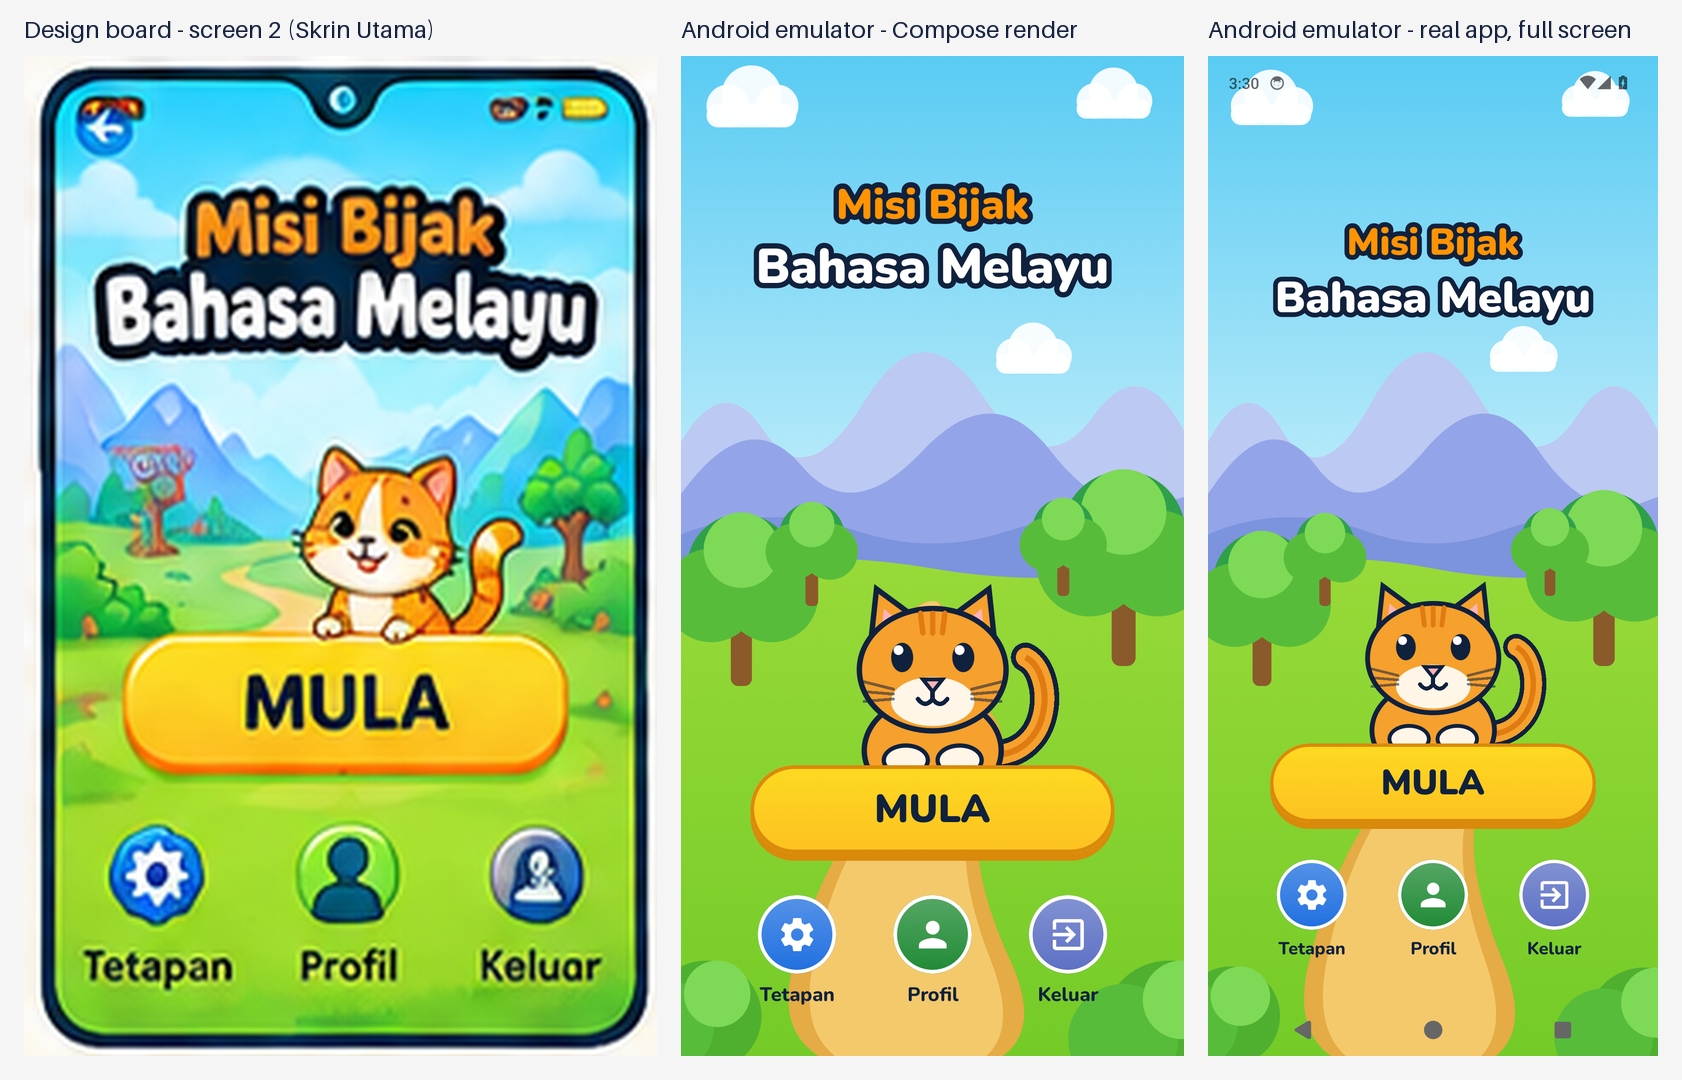
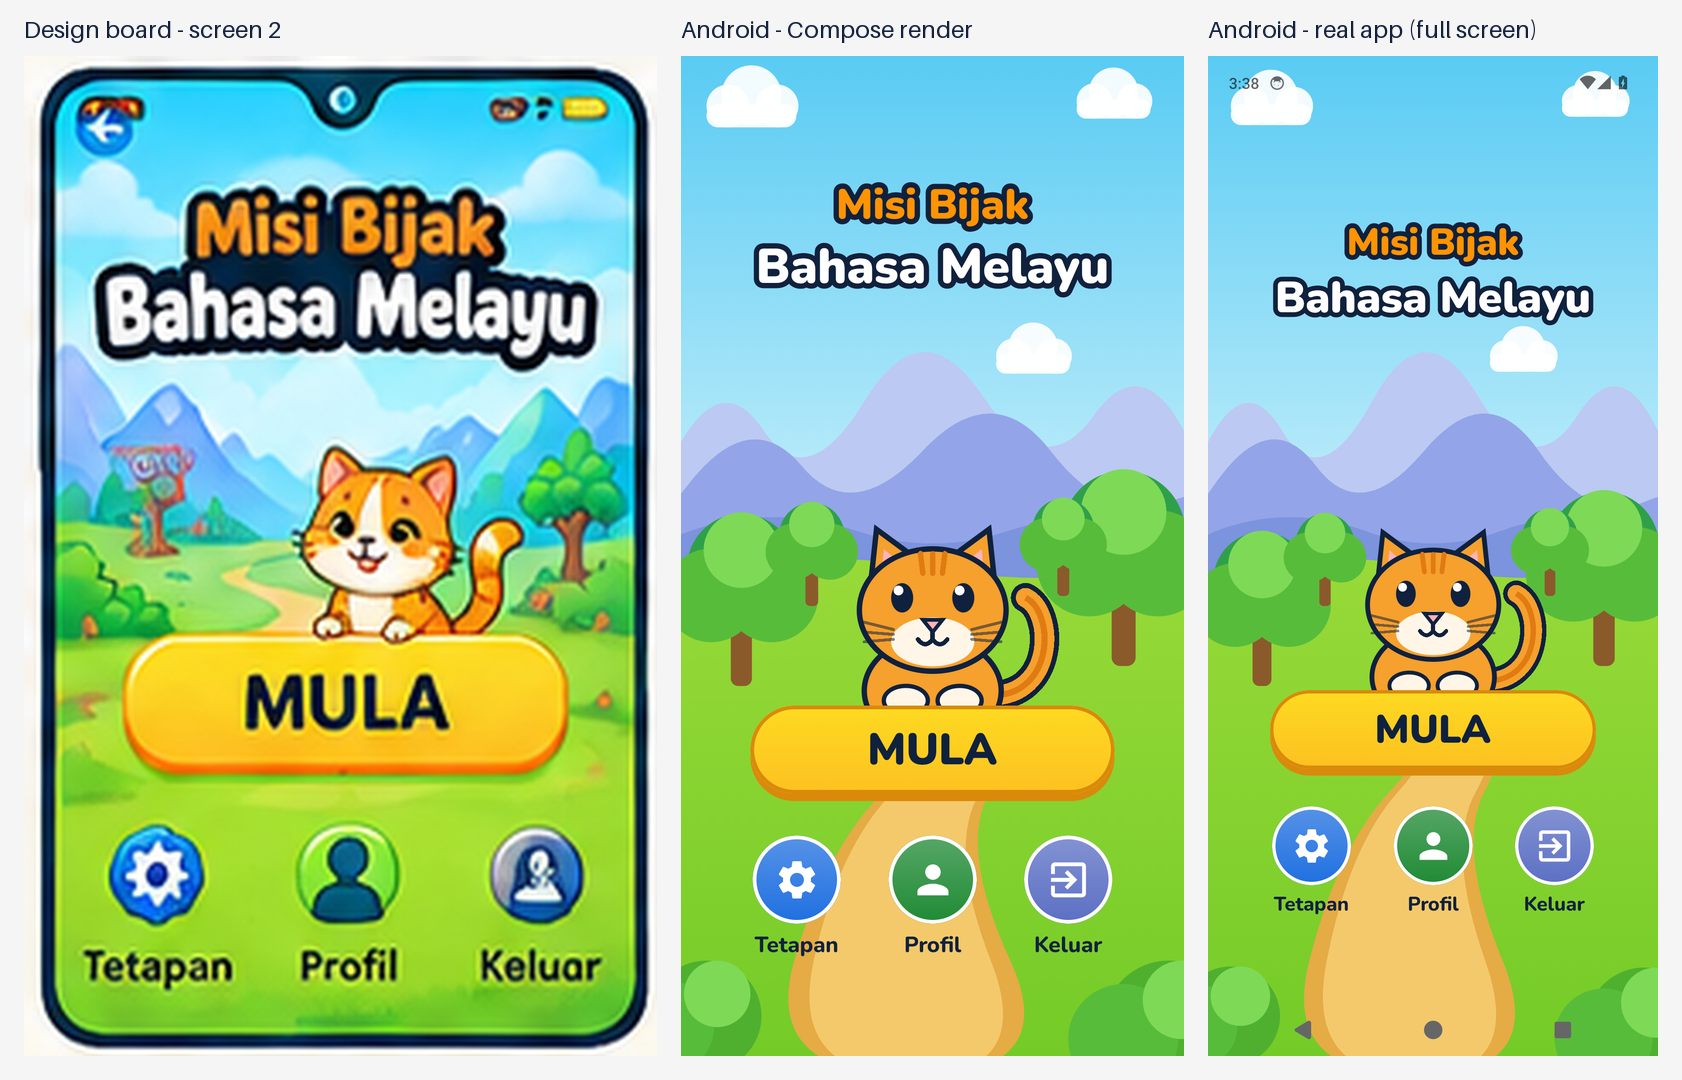
Add UI-01 review report, evidence screenshots and comparisons; update checklist
Claude-Session: https://claude.ai/code/session_0161BM2n5YtFZvExoahLLBMC

diff --git a/docs/android/UI01_REPORT.md b/docs/android/UI01_REPORT.md
@@ -1,0 +1,159 @@
+# UI-01 review report — M0 foundation, Splash, Main menu, shared theme
+
+**For:** Cowlick UI-01 review · **Branch:** `feature/android-app` · **Validated code commit:** `22dcdeb` (later commits are documentation only)
+**Not done, by instruction:** UI-02 and later modules, merge to `main`, releases, any Supabase access.
+
+Evidence labels: **VERIFIED** (observed in CI output or a CI-produced file this session) · **ASSUMED** · **UNKNOWN**.
+
+## 1. Bottom line
+
+- **Build and tests: VERIFIED green in CI** for commit `22dcdeb`: lint, unit tests, debug/instrumented-test/release assembly, the APK permission policy, the dependency allowlist, and **11 instrumented tests passing on two Android 14 emulators (phone and tablet)**.
+- **Visual parity with the design board: NOT achieved, and not claimed.** Screen *structure*, colours, typography family, copy and element order follow the board. The **illustrations do not**: the board's characters and scenery were supplied only as a flattened picture, so Splash and Main Menu use simple original code-drawn placeholders (§5). Side-by-side images are in §4.
+- **Debug APK: available** as a CI artifact (§3). I could not download or inspect it myself because the artifact storage host is blocked from this sandbox.
+- Design documents were completed first as instructed (§6).
+
+## 2. CI evidence
+
+| Item | Result | Link |
+|---|---|---|
+| Latest run (commit `22dcdeb`) | **success** — all jobs | <https://github.com/p3n3b4b-95/misi-bijak-Bahasa-Melayu/actions/runs/38924921466> |
+| Previous green runs (same pipeline) | runs 7, 8, 9 success | run 9: <https://github.com/p3n3b4b-95/misi-bijak-Bahasa-Melayu/actions/runs/38923722570> |
+| Workflow | `.github/workflows/android-ci.yml`, actions pinned by commit SHA | [file](../../.github/workflows/android-ci.yml) |
+
+Gates (see `09-ci-gates.md`). "Passed" means the step concluded success in a CI run; I read per-step results for run 6 and the overall conclusion for runs 7–10, and read the actual test result lines from the emulator logs.
+
+| Gate | What ran | Result |
+|---|---|---|
+| G0 wrapper integrity | `setup-gradle` with `validate-wrappers` | Passed |
+| G1 build | `assembleDebug`, `assembleDebugAndroidTest`, `assembleRelease` (R8 on, unsigned) | Passed |
+| G2 lint | `lintDebug`, `abortOnError` | Passed |
+| G4 unit tests | 7 JVM tests: contrast tokens (3), splash timing (4) | Passed (count from source; step success from CI) |
+| G6 offline/privacy policy | `tools/check-apk-policy.js` on the release APK via `aapt2`: no forbidden permissions (INTERNET etc.), `allowBackup=false`, only the launcher activity exported | Passed |
+| G7 dependency allowlist | `tools/check-dependencies.js` on the release runtime classpath | Passed |
+| G8 forbidden files | no keystores/APKs/`local.properties` tracked | Passed |
+| Emulator tests | 11 instrumented tests (4 menu semantics/touch-target/dialog/exit, 1 splash semantics, 1 end-to-end splash→menu, 4 screenshot renders, 1 real-app capture) on **Android 14 (API 34, x86_64 emulator)**, phone 1080×2400 @420 dpi and tablet 2560×1800 @320 dpi | `OK (11 tests)` on both (read from `instrument.log`) |
+| G9, G10, G11, G12, G13, G14, G15 | content, screenshot-baseline, nightly, Pages-isolation, web non-regression, size budget, release | **Not run** — out of UI-01 scope or awaiting approvals |
+
+**CI history, for honesty:** runs 1, 2, 4 and 5 **failed** on compile errors in my code (a wrong import, a non-existent test API, an unresolved `matchParentSize`); each was fixed and re-run. Runs 3 and 6 were cancelled by later pushes. Runs 7–10 passed.
+
+## 3. Artifacts
+
+| Artifact (run 10) | Contents | Notes |
+|---|---|---|
+| `android-apks` (id 12055364719, 13.7 MB, sha256 of the zip `a5d59468…82cc`) | `app-debug.apk`, `app-debug-androidTest.apk`, `app-release-unsigned.apk` | Expires 2026-10-30. Download from the run page above (needs repository access). The **debug APK is the one to install**; the release APK is unsigned and not installable. Nothing was published as a Release |
+| `ui01-screenshots-phone` / `-tablet` | Screenshots, `instrument.log`, `device.txt`, logcat tail | Expires 2026-11-15 |
+| Branch `ci-evidence/ui-01` | The same screenshots (PNG and logs only, no code), pushed by CI because artifact storage is unreachable from the review sandbox | Never merged |
+
+The stored copies used below are committed under `design/ui-01/`.
+
+## 4. Screenshots and side-by-side comparison
+
+All are real renders on Android 14 emulators. "Compose render" = the screen composable rendered on the emulator and captured (deterministic, progress fixed at 35% like the board). "Real app" = the running app captured full-screen with UiAutomator, including status/navigation bars.
+
+| Image | What it shows |
+|---|---|
+| [`design/ui-01/comparison/splash-board-vs-android.png`](design/ui-01/comparison/splash-board-vs-android.png) | Board screen 1 · Compose render · real app |
+| [`design/ui-01/comparison/menu-board-vs-android.png`](design/ui-01/comparison/menu-board-vs-android.png) | Board screen 2 · Compose render · real app |
+| [`design/ui-01/comparison/tablet-landscape.png`](design/ui-01/comparison/tablet-landscape.png) | Tablet landscape splash and menu (no board frame exists) |
+| [`design/ui-01/comparison/phone-font-scale-2.png`](design/ui-01/comparison/phone-font-scale-2.png) | Phone at 200% font size |
+| [`design/ui-01/phone/`](design/ui-01/phone/), [`tablet/`](design/ui-01/tablet/) | Individual screenshots |
+
+Coverage gaps (VERIFIED): the **real-app splash was captured on the phone only**; on the tablet the capture sequence only caught the menu (the splash lasts ~1.8 s), so the tablet splash is a Compose render, not a real-app frame. The real-app splash frame shows the bar at about 70%, not 35%.
+
+## 5. Visual differences from the board
+
+Measured on the comparison images; positions are fractions of screen height and accurate to a few percent.
+
+### Illustration and art (largest differences)
+| # | Board | Android UI-01 | Why |
+|---|---|---|---|
+| D1 | Detailed illustrated boy with backpack, both hands gesturing | Simple vector placeholder: cap, face, one raised arm, rounded shirt, no legs | No artwork files supplied; copying from the flattened board is not usable (resolution, licence) |
+| D2 | Illustrated ginger-and-white cat, smiling, paws over the button | Placeholder cat: orange head, white muzzle, tail | same |
+| D3 | Painted scenery: snowy mountains, varied trees, huts, river path, soft clouds | Flat vector sky, three mountain layers, round trees, sand path, plain clouds | same |
+| D4 | Glossy 3D icon buttons with custom glyphs (gear, person, person-in-door) | Gradient circles with Material glyphs (`Settings`, `Person`, `ExitToApp`) | No icon files; Material icons are a placeholder |
+| D5 | Logo with a heavy sticker outline in a display face | Nunito Black with a stroked outline; slightly lighter and smaller | The board's logo face is not named |
+
+### Layout and sizing
+| # | Board | Android UI-01 |
+|---|---|---|
+| D6 | Splash title block centre ≈ 28% from the top | ≈ 20% (title is higher) |
+| D7 | Splash boy ≈ 48–83% of height, ≈ 53% of width | ≈ 50–85%, ≈ 52% of width (close) |
+| D8 | Menu cat ≈ 38–59%, large | ≈ 48–66%, about 25% smaller and lower |
+| D9 | MULA ≈ 58–71% of height, tall glossy pill, large label | ≈ 66–76%, shorter, 36 sp label |
+| D10 | Icon row ≈ 77–93%, large icons and ≈ 20 sp captions | ≈ 80–92%, 72 dp icons, 18 sp captions |
+| D11 | Back arrow in the top-left of the main menu | Not implemented: the menu is the root screen |
+| D12 | Phone only; Android notch drawn in the mockup | Real status bar and system navigation shown; layouts are edge-to-edge |
+
+### Deliberate deviations (spec wins over board)
+| # | Deviation | Reason |
+|---|---|---|
+| D13 | MULA/Tetapan/Profil show a temporary "Akan datang" dialog | Their destinations belong to UI-02+; **not on the board** |
+| D14 | MULA announces "Mula bermain" to TalkBack | Avoids letter-by-letter reading of capitals |
+| D15 | Landscape tablet layouts and the translucent caption panel in landscape | The board has no tablet or landscape frames; the panel keeps captions off trees (found in the first tablet screenshots) |
+| D16 | Logo ignores system font size; other text scales | At 200% the logo clipped in the first screenshots |
+| D17 | Loading bar is a timed 1.8 s animation | No real loading work exists yet; it is wired to an initialisation flag for later |
+
+### Defects found from the screenshots and fixed
+Logo clipped at 200% font size; tablet mascot oversized and cut off; mouth drawn below the chin; stray sand spike behind the cat; "Keluar" caption over a tree trunk on tablet; cloud touching the title; real-app splash frame missing. All fixed and re-captured in run 10 except as noted in §4.
+
+## 6. Design documents completed first
+
+| Requested | Delivered |
+|---|---|
+| Store the board under `docs/android/design/` | [`design/design-board-v1.png`](design/design-board-v1.png) + 22 crops in [`design/crops/`](design/crops/) |
+| Complete all PENDING-BOARD fields | [`05-screen-spec.md`](05-screen-spec.md): all 19 screens, components C01–C22, navigation diagram, colours, typography, contrast review, 13 board-vs-requirement findings (B1–B13) and open questions Q11–Q18 |
+| Visual asset manifest | [`design/asset-manifest.md`](design/asset-manifest.md) |
+| Exact components, colours, spacing, typography, navigation for 19 screens | `05-screen-spec.md` §3–§5. Colours were **sampled from the board's pixels**; text sizes and spacing for screens 3–19 are derived, not measured |
+
+Key findings from the board (details in `05`): **Susun Huruf and Ayat Mudah have no frames**; the board uses 10 questions/100 points per round (web: 8/80) and a retry-on-wrong flow; several board button colours fail contrast (white on pink 2.81:1, white on green 1.76:1) so dark labels are used; there is no nickname-entry or profile-selection screen.
+
+## 7. What was built
+
+| Area | Files |
+|---|---|
+| Project | `android/` Gradle project, wrapper pinned with checksum, version catalog; AGP 8.11.1, Kotlin 2.2.21, Compose BOM 2025.10.00, minSdk 24 (provisional), target/compile 36; `applicationId` `io.github.p3n3b495.misibijak` (**provisional**) |
+| Screens | `feature/splash` (Splash with timed progress, hand-over to menu, popped from back stack), `feature/menu` (Main menu; portrait and landscape layouts, scrolls at large font sizes) |
+| Theme and components | `ui/theme`: palette tokens (board-sampled), contrast maths, Nunito (OFL, bundled), dimensions. `ui/components`: `PillButton`, `RoundIconButton`, `LoadingBar`, `GameTitle`/`OutlinedText`, `SceneBackground`, placeholder `BoyMascot`/`CatMascot`, `ComingSoonDialog` |
+| Navigation | typed routes `Splash`, `MainMenu` |
+| Policies | `AndroidManifest.xml` with no permissions, `allowBackup=false`, backup/transfer exclusions |
+| Tooling | `tools/check-apk-policy.js`, `check-dependencies.js`, `android-instrument.sh`, `ci-gradle.sh`, `make-comparison.py` |
+
+## 8. Unresolved issues and risks
+
+| # | Issue | Evidence / status |
+|---|---|---|
+| U1 | **Artwork**: no usable character/scenery/icon files; board provenance and licence UNKNOWN. Placeholders are not a substitute for approved art | Q16, `design/asset-manifest.md` |
+| U2 | Only Android 14 emulators (API 34, x86_64) were tested. API 24–33, real devices, low-RAM devices and ARM are **UNKNOWN** | Device census still missing (Q4) |
+| U3 | **No manual TalkBack test.** Automated semantics checks only (labels, roles, touch-target sizes) | |
+| U4 | Reduced-motion / system animation scale is not handled by the splash progress or any animation | Not implemented |
+| U5 | Phone **landscape** was not captured; tablet landscape was | |
+| U6 | Tablet layouts are functional but not designed (no board frames); controls are small relative to the screen | D15 |
+| U7 | Real-app splash not captured on the tablet | §4 |
+| U8 | Menu back arrow, glossy icons and the board's exact logo face are not reproduced | D4, D5, D11 |
+| U9 | `applicationId`, `minSdk`, AGP/Compose versions are provisional and **older than the newest releases** (AGP 9.x exists); revisit at M1 | `01-decisions.md` §D |
+| U10 | Artifact download from CI is blocked in the review sandbox; screenshots were read via the evidence branch. I did not install or inspect the APK myself | §3 |
+| U11 | CI uses the Gradle action's proprietary caching component (stated in its log); CI-only, no effect on the app, but note the terms | Log of every run |
+| U12 | The workflow has a job with `contents: write` that pushes only to `ci-evidence/ui-01`. Confirm you accept this, or remove the job | `android-ci.yml` |
+| U13 | Pages deployment still publishes the repository root; `android/` and `docs/` will be published after any merge to `main` unless the isolation plan (06) is approved | Q7 |
+| U14 | Board content questions (sun with *mata/batu/satu*, cat with "k _ t") and missing activities (Susun Huruf, Ayat Mudah) remain open | `05` §1 |
+
+## 9. Guardrail check
+
+| Guardrail | Status |
+|---|---|
+| No UI-02 or later | Complied: only Splash, Main menu, theme, components |
+| No merge to `main`, no releases | Complied. The release APK exists only inside a CI artifact, unsigned |
+| No production Supabase changes | Complied: no access of any kind |
+| No UI parity claim without screenshots | Complied: parity is **not** claimed; screenshots and differences are listed |
+| Preserve the web app | Complied: `git diff` against the Phase 1 tip is empty for every web, Supabase, test and Pages-workflow file; `npm test` re-run at the end of UI-01: **13/13 pass**. The only non-Android file touched is the root `.gitignore` (3 lines: `*.jks`, `*.keystore`, `local.properties`). `npm test` is not part of the Android workflow |
+| No secrets or signing keys | Complied; G8 passed. Nothing is signed |
+
+## 10. Decisions needed
+
+1. Artwork route (Q16): supply files, or authorise original illustration work; until then the placeholders stand.
+2. Whether to accept the evidence-branch job (U12).
+3. Layout deviations D6–D10: ask for a further tuning pass toward the board, or wait for real artwork first (my recommendation: wait, since proportions will change with real art).
+4. Answers to Q1 and Q11–Q15 before UI-02 (character selection and map) can start.
+5. Confirm or replace the application ID (Q19).
+
+**STOPPED for Cowlick UI-01 review.**

diff --git a/docs/android/10-milestone-checklist.md b/docs/android/10-milestone-checklist.md
@@ -21,15 +21,15 @@ Legend for gates: G-numbers refer to `09-ci-gates.md`; AC-numbers to the Phase 1
 
 ## M0 — Foundation (S–M) · Needs: Q4, applicationId/namespace, Q7 (for G12)
 
-- [ ] Choose `applicationId`/package; record in 01
-- [ ] `android/` Gradle project, wrapper, version catalog, empty themed Compose activity
-- [ ] Pin tool versions (AGP, Kotlin, Compose BOM, JDK) after checking current stable releases; record in 01 (UNKNOWN today)
-- [ ] `.gitignore` additions (06 §7) committed **before** any Android file
-- [ ] Resolve and pin action SHAs; add `android-ci.yml`, `web-ci.yml`, Dependabot
-- [ ] Custom tasks `checkManifestPolicy` (G6) and `checkDependencyAllowlist` (G7)
+- [x] Choose `applicationId`/package; record in 01 (**provisional** `io.github.p3n3b495.misibijak`, Q19)
+- [x] `android/` Gradle project, wrapper, version catalog, themed Compose activity (commit 22dcdeb)
+- [x] Pin tool versions; recorded in 01 §D (AGP/Compose deliberately not the newest)
+- [x] `.gitignore` additions (06 §7) committed with the first Android commit
+- [x] Action SHAs resolved and pinned; `android-ci.yml` added. **Not done:** `web-ci.yml`, Dependabot
+- [x] G6 and G7 implemented as scripts run in CI (`tools/check-apk-policy.js`, `check-dependencies.js`) instead of Gradle tasks
 - [ ] `tools/export-content.js` + `--check`; promote schema validator from prototype
-- [ ] **Evidence:** first green CI run for G0–G3, G6–G9, G13 (URL recorded)
-- [ ] **Evidence:** merged release manifest has no `INTERNET` permission (artefact link)
+- [x] **Evidence:** green CI run for G0–G2, G4, G6–G8: <https://github.com/p3n3b4b-95/misi-bijak-Bahasa-Melayu/actions/runs/38924921466>. G3 (formatter) not set up; G9, G13 not run
+- [x] **Evidence:** G6 policy check passed on the release APK in that run (log not excerpted here)
 - [ ] Pages stage check job added (if Q7 approved); deploy workflow **not** changed without approval
 
 ## M1 — Content + domain (M) · Needs: Q9 (pedagogy), curated distractors
@@ -53,11 +53,11 @@ Legend for gates: G-numbers refer to `09-ci-gates.md`; AC-numbers to the Phase 1
 
 ## M3 — Module 1 and shell (S) · Needs: board frames S01–S02, font (L5)
 
-- [ ] Theme tokens from board; contrast token test (G10)
-- [ ] `AppContainer`, `MainActivity`, `NavHost`, guards per 03
-- [ ] S01 Splash, S02 MainMenu, S23 ErrorRetry
-- [ ] Manifest policy test passes with real manifest
-- [ ] **Evidence:** UI tests; TalkBack walkthrough notes; AC-1
+- [x] Theme tokens from board; contrast token test (unit test passing in CI)
+- [x] `AppContainer`, `MainActivity`, `NavHost` (typed routes Splash, MainMenu); guards not needed yet
+- [x] S01 Splash, S02 MainMenu (placeholder art). [ ] S23 ErrorRetry not built
+- [x] Manifest policy check passes with the real release manifest
+- [ ] **Evidence:** UI tests passing (11 on two emulators) — **TalkBack walkthrough notes still missing**; AC-1 partly met (menu actions are placeholders)
 
 ## M4 — Module 3: activities (L) · Needs: M1, audio cleared or dev-only (L2), pictures (L3)
 

diff --git a/docs/android/README.md b/docs/android/README.md
@@ -5,6 +5,7 @@ Documentation for the planned offline Android version of Misi Bijak Bahasa Melay
 | Read first | |
 |---|---|
 | [`PHASE2_REPORT.md`](PHASE2_REPORT.md) | Review summary, evidence table (VERIFIED / ASSUMED / UNKNOWN), blockers, questions |
+| [`UI01_REPORT.md`](UI01_REPORT.md) | **Latest:** M0 + UI-01 review with CI links, screenshots and visual differences |
 | [`PHASE1_RECON_REPORT.md`](PHASE1_RECON_REPORT.md) | Repository reconnaissance and first plan |
 
 | Document | Topic |
@@ -19,6 +20,7 @@ Documentation for the planned offline Android version of Misi Bijak Bahasa Melay
 | [`08-licensing-audit.md`](08-licensing-audit.md) | Audio, pictures, fonts; [`asset-register.csv`](asset-register.csv) |
 | [`09-ci-gates.md`](09-ci-gates.md) | CI acceptance gates |
 | [`10-milestone-checklist.md`](10-milestone-checklist.md) | Milestones M0–M9 |
+| [`design/`](design/) | Design Board V1, per-screen crops, asset manifest, UI-01 screenshots and comparisons |
 | [`schemas/`](schemas/) | JSON Schemas, examples, prototype export/validate scripts |
 
 Prototype scripts in `schemas/tools/` are not product code. To re-run them: `node schemas/tools/prototype-export.js`, then `NODE_PATH=<dir containing node_modules with ajv@8> node schemas/tools/validate-examples.js`.
